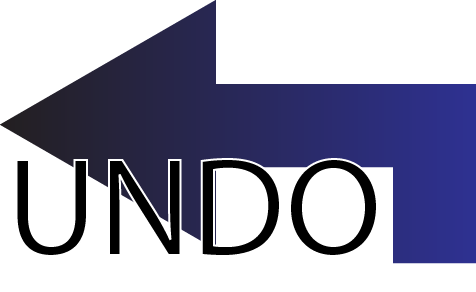
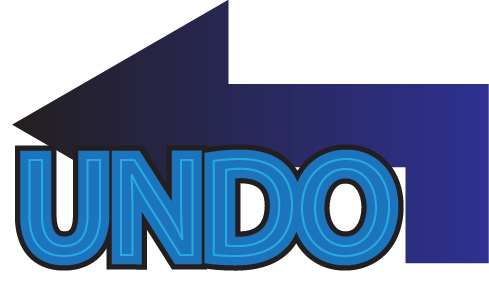
-A couple of new sounds -a better image -relocated the undo button in game

diff --git a/war/js/game.js b/war/js/game.js
@@ -8,13 +8,15 @@ function game(){
 	//back-button:
 	var backButtonSize = height/10;	// the button area is square
 	var backButtonEnlargedSize = height/8;	// the button area is square
+    var buttonDistFromEdges = height/16;
 	
 	//undo-button:
-	var undoButtonSize = height/10;	// the button area is square
-	var undoButtonEnlargedSize = height/8;	// the button area is square
+	var undoButtonHeight = height/10;	// the button area is square
+    var undoButtonWidth;
+	var undoButtonEnlargedHeight = height/8;	// the button area is square
+    var undoButtonEnlargedWidth;
+    var undoButtonDistFromEdges = height/64;
 
-    //universal
-    var buttonDistFromEdges = height/16;
 	
 	// edges :
     var allowingMultiColoredEdges = false;  //determines if edges could have different colors
@@ -105,6 +107,15 @@ function game(){
 
 //	-------------------------------------------------------------
 
+
+//	onload :
+
+    undoButton.onload = function(){
+        undoButtonWidth = undoButton.width*(undoButtonHeight/undoButton.height);
+        undoButtonEnlargedWidth = undoButtonWidth*(undoButtonEnlargedHeight/undoButtonHeight);
+    }
+
+//	-------------------------------------------------------------
 //	object creation :
 	//this data is supposed to be taken from another file (a "stage" file)
 
@@ -325,9 +336,9 @@ function game(){
 
     function drawUndoButton(){
         if(isMouseOverUndoButton())
-            context.drawImage(undoButton_over , width - undoButtonEnlargedSize/2 - buttonDistFromEdges , buttonDistFromEdges - 0.5*(undoButtonEnlargedSize - undoButtonSize) , undoButtonEnlargedSize , undoButtonEnlargedSize);
+            context.drawImage(undoButton_over , width - undoButtonDistFromEdges - (undoButtonWidth + 0.5*(undoButtonEnlargedWidth-undoButtonWidth)) , undoButtonDistFromEdges - 0.5*(undoButtonEnlargedHeight - undoButtonHeight) , undoButtonEnlargedWidth , undoButtonEnlargedHeight);
         else
-            context.drawImage(undoButton , width - undoButtonSize/2 - buttonDistFromEdges , buttonDistFromEdges , undoButtonSize , undoButtonSize);
+            context.drawImage(undoButton , width - undoButtonDistFromEdges - undoButtonWidth , undoButtonDistFromEdges , undoButtonWidth , undoButtonHeight);
     }
 
 
@@ -444,8 +455,8 @@ function game(){
 	}
 
 	function isMouseOverUndoButton(){
-		if((width - undoButtonSize/2 - buttonDistFromEdges < mouseX && mouseX < width - buttonDistFromEdges + undoButtonSize/2) &&
-				(buttonDistFromEdges < mouseY && mouseY < buttonDistFromEdges + undoButtonSize))	//clicked on back arrow
+		if((width - undoButtonWidth - undoButtonDistFromEdges < mouseX && mouseX < width - undoButtonDistFromEdges) &&
+				(undoButtonDistFromEdges < mouseY && mouseY < undoButtonDistFromEdges + undoButtonHeight))	//clicked on back arrow
 			return true;
 		else
 			return false;

diff --git a/war/js/createGame.js b/war/js/createGame.js
@@ -224,6 +224,9 @@ function createGame(){
         buttonDistFromEdges = (height - backButtonSize - backButtonDistFromEdges - (((buttons.length-1)/2 + 1) * buttonHeight)) / ((buttons.length-1)/2);	//average of free height per button
     }
 
+    var createdNode = new Audio("sounds/game/NodeNoise1.wav");
+    var createdEdge = new Audio("sounds/game/bu.wav");
+
 //	-------------------------------------------------------------
 
 //	onload functions : 
@@ -697,6 +700,8 @@ function createGame(){
 
         if(allowConsoleMessages)
             console.log("created edge between nodes indexed " + nodeIndex1 + " and " + nodeIndex2);
+
+        playSFX(createdEdge);
     }
 
     function addEdgeRandomly(i){
@@ -721,6 +726,8 @@ function createGame(){
         if(allowConsoleMessages){
             console.log("created node; index: " + (nodes.length-1) + " id: " + nodes[nodes.length-1].id);
         }
+
+        playSFX(createdNode);
 
     }
 
@@ -766,6 +773,14 @@ function createGame(){
     }
 
 
+
+//////////////////////////sound functions
+
+
+    function playSFX(sound){
+        sound.play();
+        sound.currentTime = 0;
+    }
 
 //////////////////////////boolean functions
 
